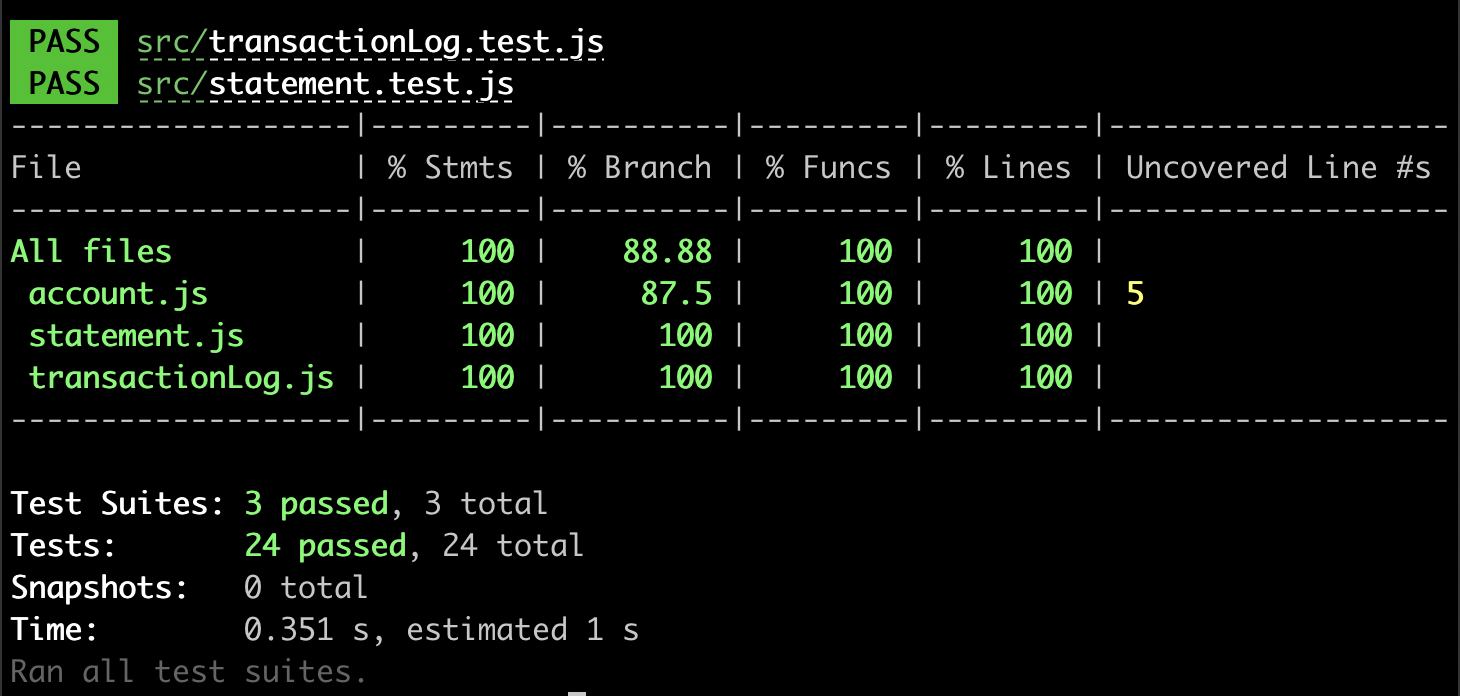
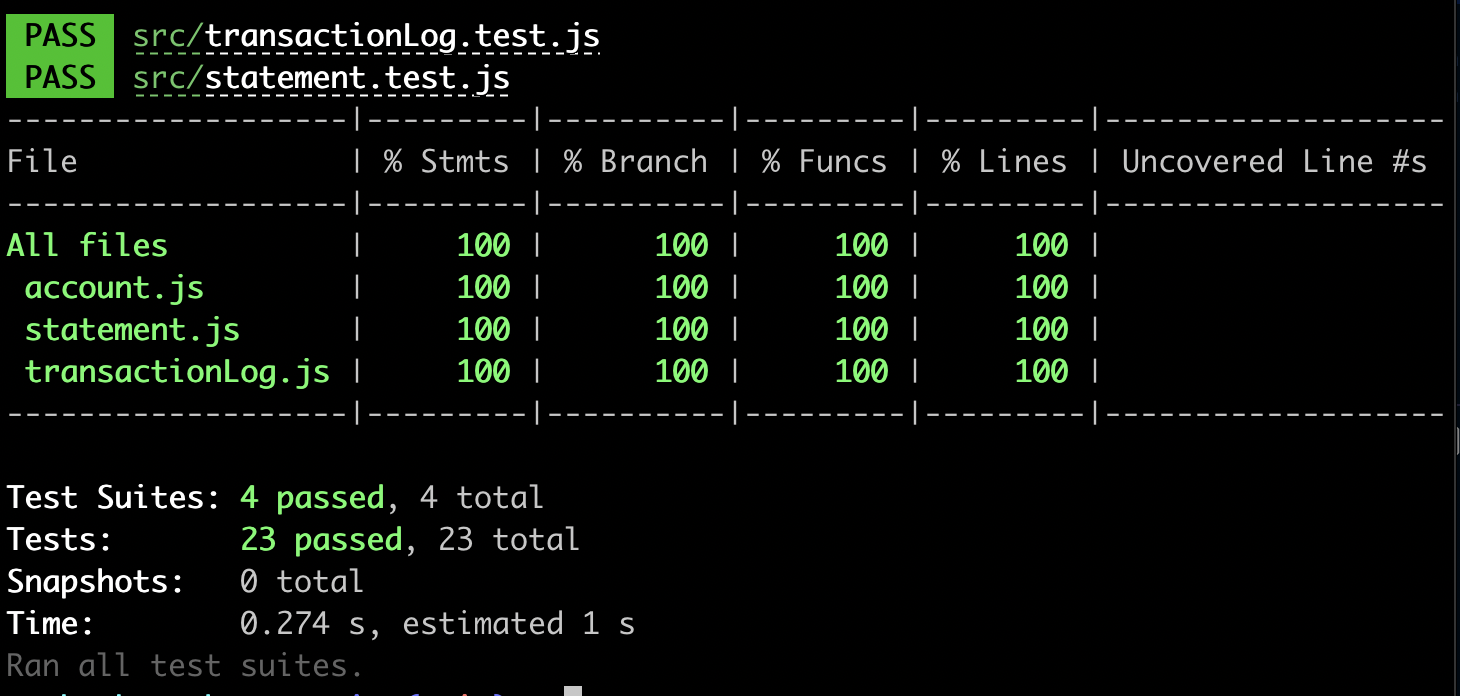
Update code coverage image

diff --git a/README.md b/README.md
@@ -153,11 +153,9 @@ The user is able to enter dates they want in any order. This could therefore cre
 
 ## Testing
 
-Jest was used to create the test suite for each class. To run the tests, simply enter `jest` into the terminal while in either the main or src directory. If you want to see the code coverage stats as well, then running `jest --coverage` will show them. Each test passes and provides a 100% code coverage with regards to each function and each line. The output from this is shown here:
+Jest was used to create the test suite for each class and the [feature test](https://github.com/jmcnally17/bank-tech-test/blob/main/src/feature.test.js). To run the tests, simply enter `jest` into the terminal while in either the main or src directory. If you want to see the code coverage stats as well, then running `jest --coverage` will show them. Each test passes and cumulatively provide a 100% code coverage. The output from this is shown here:
 
 ![Code coverage from Jest](images/code_coverage.png "Code coverage from Jest")
-
-*Note: The test coverage doesn't fully cover the branching. This is due to how the constructor works when injecting other classes into the account class.*
 
 Tests were alway written first using the Red-Green-Refactor technique from TDD, with the simplest implementation to solve the tests being written first. Any code that needed to be changed was done so after its test had been updated first. This is so even when modifications are made to existing code, the Red-Green-Refactor technique is still followed.
 
